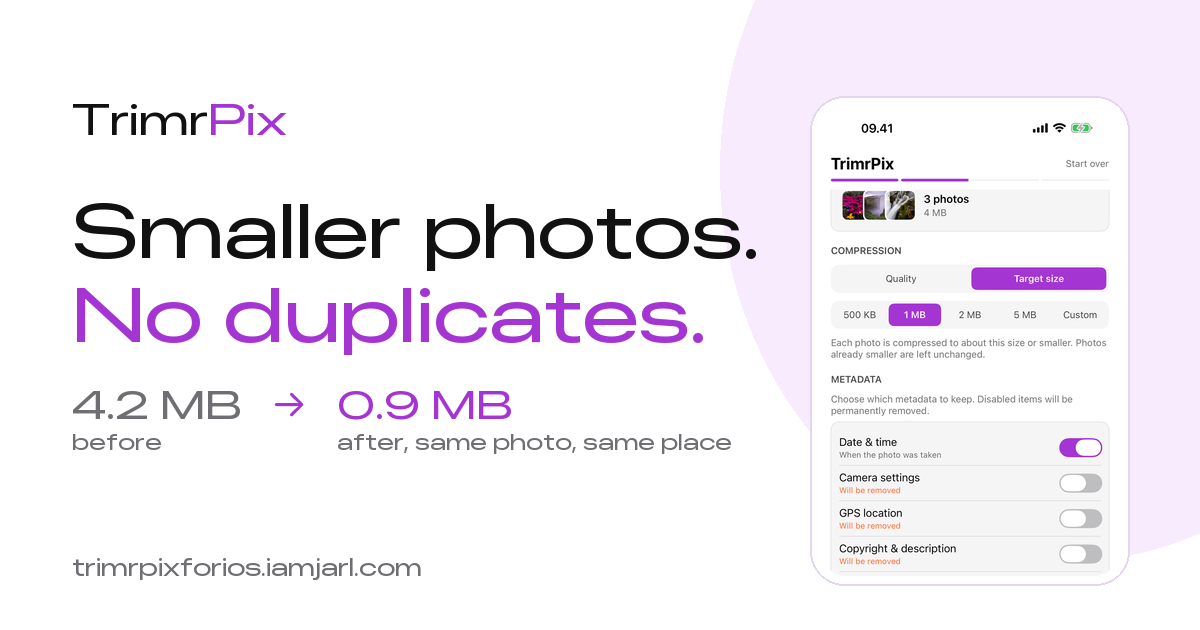
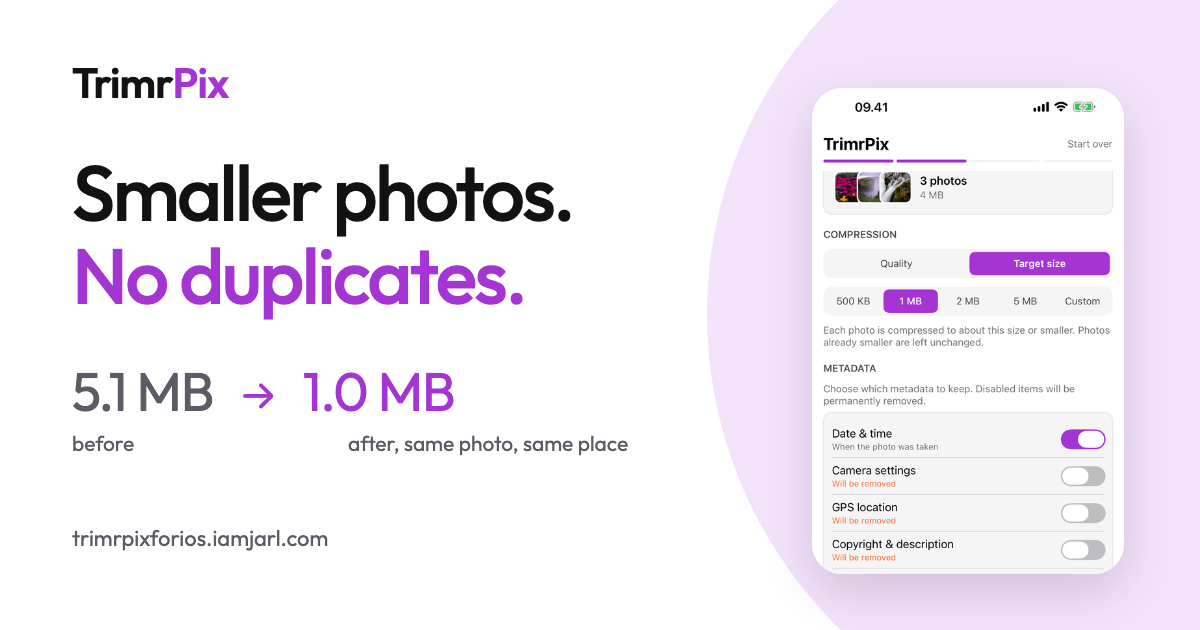
docs(site): put a measured before/after on the site, and keep the generator
The hero proof line and the og:image on all six pages carried 4.2 MB -> 0.9 MB.
Nobody had measured that pair; it was written to look plausible. Replaced with
a figure that was actually produced: 5,104,062 -> 997,850 bytes, 80.4%.

The photo is CC0 (Wikimedia Commons, 5712x4284, licence checked at source),
run through the 1.5.0 build on an iOS 26 simulator at the 1 MB target with
the app's default metadata settings. Dimensions and format are unchanged by
the run, so the pair compares like with like.

The card itself is the reason this went stale quietly: it was generated by a
throwaway script, so the numbers were baked into a PNG nobody could edit. The
generator is now tools/social-card.html, with the capture command and the
provenance of the figure in its header comment.

diff --git a/tools/social-card.html b/tools/social-card.html
@@ -1,0 +1,162 @@
+<!DOCTYPE html>
+<!--
+  Generator for docs/social-card.png (the og:image on every page).
+
+  Serve the repo and capture this page at exactly 1200x630:
+
+    python3 -m http.server 4189
+    "/Applications/Google Chrome.app/Contents/MacOS/Google Chrome" \
+      --headless --disable-gpu --hide-scrollbars \
+      --screenshot=docs/social-card.png --window-size=1200,630 \
+      http://localhost:4189/tools/social-card.html
+
+  It is kept in the repo rather than regenerated by hand because the first card
+  was produced by a throwaway script: when the before/after figure changed, the
+  numbers were baked into the PNG and nobody could edit them.
+
+  The figure is measured, not illustrative. 5,104,062 bytes -> 997,850 bytes
+  (80.4%) is a CC0 photo (Wikimedia Commons, 5712x4284) run through the 1.5.0
+  build at the 1 MB target with the app's default metadata settings. If the
+  figure changes, change it here and in the og:image:alt on every page in docs/.
+-->
+<html lang="en">
+<head>
+<meta charset="utf-8">
+<title>Social card generator</title>
+<link rel="preconnect" href="https://fonts.googleapis.com">
+<link rel="preconnect" href="https://fonts.gstatic.com" crossorigin>
+<link href="https://fonts.googleapis.com/css2?family=Outfit:wght@400;500;600;700&display=swap" rel="stylesheet">
+<style>
+  :root {
+      --brand: #A435D2;
+      --text:  #121212;
+      --text-2:#5c5c66;
+      --tint:  #F3E3FA;
+  }
+  *, *::before, *::after { box-sizing: border-box; }
+
+  /* The card is the whole page, so a 1200x630 capture needs no cropping. */
+  body {
+      margin: 0;
+      padding: 0;
+      background: #fff;
+      font-family: Outfit, system-ui, sans-serif;
+  }
+  .card {
+      position: relative;
+      width: 1200px;
+      height: 630px;
+      background: #fff;
+      overflow: hidden;
+      flex: none;
+  }
+  /* the soft brand circle bleeding off the right edge */
+  .card::before {
+      content: "";
+      position: absolute;
+      width: 880px;
+      height: 880px;
+      border-radius: 50%;
+      background: var(--tint);
+      top: -126px;
+      left: 707px;
+  }
+  .inner { position: relative; height: 100%; padding: 56px 72px; }
+
+  .mark {
+      font-size: 42px;
+      font-weight: 600;
+      letter-spacing: -.02em;
+      color: var(--text);
+      margin: 0 0 42px;
+  }
+  .mark em { font-style: normal; color: var(--brand); }
+
+  h1 {
+      font-size: 78px;
+      font-weight: 500;
+      line-height: 1.07;
+      letter-spacing: -.035em;
+      color: var(--text);
+      margin: 0 0 46px;
+      max-width: 700px;
+  }
+  h1 em { font-style: normal; color: var(--brand); }
+
+  .figures {
+      display: flex;
+      align-items: baseline;
+      gap: 26px;
+      font-size: 54px;
+      font-weight: 400;
+      letter-spacing: -.02em;
+      line-height: 1;
+  }
+  .before { color: var(--text-2); }
+  .arrow  { color: var(--brand); font-size: 42px; }
+  .after  { color: var(--brand); }
+
+  .labels {
+      display: flex;
+      gap: 26px;
+      margin-top: 12px;
+      font-size: 21px;
+      color: var(--text-2);
+  }
+  .labels .l-before { width: 182px; }
+  .labels .l-arrow  { width: 42px; }
+
+  .url {
+      position: absolute;
+      left: 72px;
+      bottom: 56px;
+      font-size: 22px;
+      color: var(--text-2);
+  }
+
+  /* phone, right-hand side */
+  .phone {
+      position: absolute;
+      right: 76px;
+      top: 88px;
+      width: 312px;
+      height: 486px;
+      border-radius: 30px;
+      background: #fff;
+      box-shadow: 0 18px 48px rgba(40, 10, 60, .16);
+      overflow: hidden;
+  }
+  .phone img {
+      display: block;
+      width: 100%;
+      /* crop to the part of the configure screen that reads at this size */
+      margin-top: -4px;
+  }
+</style>
+</head>
+<body>
+<div class="card">
+  <div class="inner">
+    <p class="mark">Trimr<em>Pix</em></p>
+    <h1>Smaller photos.<br><em>No duplicates.</em></h1>
+
+    <div class="figures">
+      <span class="before">5.1 MB</span>
+      <span class="arrow">&rarr;</span>
+      <span class="after">1.0 MB</span>
+    </div>
+    <div class="labels">
+      <span class="l-before">before</span>
+      <span class="l-arrow"></span>
+      <span>after, same photo, same place</span>
+    </div>
+
+    <p class="url">trimrpixforios.iamjarl.com</p>
+  </div>
+
+  <div class="phone">
+    <img src="../docs/screenshot-2-configure.png" alt="">
+  </div>
+</div>
+</body>
+</html>

diff --git a/docs/index.html b/docs/index.html
@@ -21,7 +21,7 @@
     <meta property="og:image" content="https://trimrpixforios.iamjarl.com/social-card.png">
     <meta property="og:image:width" content="1200">
     <meta property="og:image:height" content="630">
-    <meta property="og:image:alt" content="TrimrPix: smaller photos, no duplicates. 4.2 MB before, 0.9 MB after, the same photo in the same place.">
+    <meta property="og:image:alt" content="TrimrPix: smaller photos, no duplicates. 5.1 MB before, 1.0 MB after, the same photo in the same place.">
     <!-- Twitter Card -->
     <meta name="twitter:card" content="summary_large_image">
     <meta name="twitter:title" content="TrimrPix: Compress Photos on iPhone. No Duplicates.">
@@ -235,7 +235,7 @@
             </span>
             <h1>Smaller photos.<br><em>No duplicates.</em></h1>
             <p class="hero-sub">TrimrPix compresses the photos already in your library and puts them back where they were. Nothing to tidy up afterwards.</p>
-            <p class="proof"><strong>4.2&nbsp;MB &rarr; 0.9&nbsp;MB.</strong> The same photo, at the 1&nbsp;MB target, back in the same place.</p>
+            <p class="proof"><strong>5.1&nbsp;MB &rarr; 1.0&nbsp;MB.</strong> The same photo, at the 1&nbsp;MB target, back in the same place.</p>
             <a class="btn" href="https://apps.apple.com/app/id6761081919?pt=128512007&amp;ct=site&amp;mt=8" data-umami-event="store-click" data-umami-event-store="app-store" data-umami-event-placement="hero" data-umami-event-locale="en">
                 <svg viewBox="0 0 24 24" fill="currentColor" aria-hidden="true"><path d="M17.05 12.54c-.02-2.2 1.8-3.26 1.88-3.31-1.02-1.5-2.61-1.7-3.18-1.73-1.35-.14-2.64.8-3.33.8-.69 0-1.75-.78-2.87-.76-1.48.02-2.84.86-3.6 2.18-1.53 2.66-.39 6.6 1.1 8.76.73 1.06 1.6 2.25 2.74 2.2 1.1-.04 1.52-.71 2.85-.71 1.33 0 1.7.71 2.86.69 1.18-.02 1.93-1.07 2.65-2.13.84-1.22 1.18-2.4 1.2-2.46-.03-.01-2.3-.88-2.3-3.53zM14.9 5.6c.6-.74 1.01-1.76.9-2.78-.87.04-1.93.58-2.56 1.31-.56.65-1.05 1.69-.92 2.69.97.07 1.96-.49 2.58-1.22z"/></svg>
                 Download on the App Store

diff --git a/docs/free-up-iphone-storage-without-deleting-photos.html b/docs/free-up-iphone-storage-without-deleting-photos.html
@@ -19,7 +19,7 @@
     <meta property="og:image" content="https://trimrpixforios.iamjarl.com/social-card.png">
     <meta property="og:image:width" content="1200">
     <meta property="og:image:height" content="630">
-    <meta property="og:image:alt" content="TrimrPix: smaller photos, no duplicates. 4.2 MB before, 0.9 MB after, the same photo in the same place.">
+    <meta property="og:image:alt" content="TrimrPix: smaller photos, no duplicates. 5.1 MB before, 1.0 MB after, the same photo in the same place.">
     <meta name="twitter:card" content="summary_large_image">
     <meta name="twitter:title" content="How to Free Up iPhone Storage Without Deleting Photos">
     <meta name="twitter:description" content="Reclaim space from the largest thing on your phone without losing a single photo. What Optimise iPhone Storage does, and what it does not.">

diff --git a/docs/compress-photo-to-specific-size-iphone.html b/docs/compress-photo-to-specific-size-iphone.html
@@ -19,7 +19,7 @@
     <meta property="og:image" content="https://trimrpixforios.iamjarl.com/social-card.png">
     <meta property="og:image:width" content="1200">
     <meta property="og:image:height" content="630">
-    <meta property="og:image:alt" content="TrimrPix: smaller photos, no duplicates. 4.2 MB before, 0.9 MB after, the same photo in the same place.">
+    <meta property="og:image:alt" content="TrimrPix: smaller photos, no duplicates. 5.1 MB before, 1.0 MB after, the same photo in the same place.">
     <meta name="twitter:card" content="summary_large_image">
     <meta name="twitter:title" content="How to Compress a Photo to a Specific Size on iPhone">
     <meta name="twitter:description" content="Hitting an exact file size on iPhone, without guessing. What the built-in tools can do, and where they run out.">

diff --git a/docs/compress-photos-for-email-iphone.html b/docs/compress-photos-for-email-iphone.html
@@ -19,7 +19,7 @@
     <meta property="og:image" content="https://trimrpixforios.iamjarl.com/social-card.png">
     <meta property="og:image:width" content="1200">
     <meta property="og:image:height" content="630">
-    <meta property="og:image:alt" content="TrimrPix: smaller photos, no duplicates. 4.2 MB before, 0.9 MB after, the same photo in the same place.">
+    <meta property="og:image:alt" content="TrimrPix: smaller photos, no duplicates. 5.1 MB before, 1.0 MB after, the same photo in the same place.">
     <meta name="twitter:card" content="summary_large_image">
     <meta name="twitter:title" content="How to Compress iPhone Photos for Email">
     <meta name="twitter:description" content="Why attachments bounce, what iOS actually does to your photos when you send them, and how to get under the limit on purpose.">

diff --git a/docs/privacy.html b/docs/privacy.html
@@ -18,7 +18,7 @@
     <meta property="og:image" content="https://trimrpixforios.iamjarl.com/social-card.png">
     <meta property="og:image:width" content="1200">
     <meta property="og:image:height" content="630">
-    <meta property="og:image:alt" content="TrimrPix: smaller photos, no duplicates. 4.2 MB before, 0.9 MB after, the same photo in the same place.">
+    <meta property="og:image:alt" content="TrimrPix: smaller photos, no duplicates. 5.1 MB before, 1.0 MB after, the same photo in the same place.">
     <meta name="twitter:card" content="summary_large_image">
     <meta name="twitter:image" content="https://trimrpixforios.iamjarl.com/social-card.png">
     <!-- BreadcrumbList -->

diff --git a/docs/support.html b/docs/support.html
@@ -19,7 +19,7 @@
     <meta property="og:image" content="https://trimrpixforios.iamjarl.com/social-card.png">
     <meta property="og:image:width" content="1200">
     <meta property="og:image:height" content="630">
-    <meta property="og:image:alt" content="TrimrPix: smaller photos, no duplicates. 4.2 MB before, 0.9 MB after, the same photo in the same place.">
+    <meta property="og:image:alt" content="TrimrPix: smaller photos, no duplicates. 5.1 MB before, 1.0 MB after, the same photo in the same place.">
     <meta name="twitter:card" content="summary_large_image">
     <meta name="twitter:image" content="https://trimrpixforios.iamjarl.com/social-card.png">
     <!-- BreadcrumbList -->
